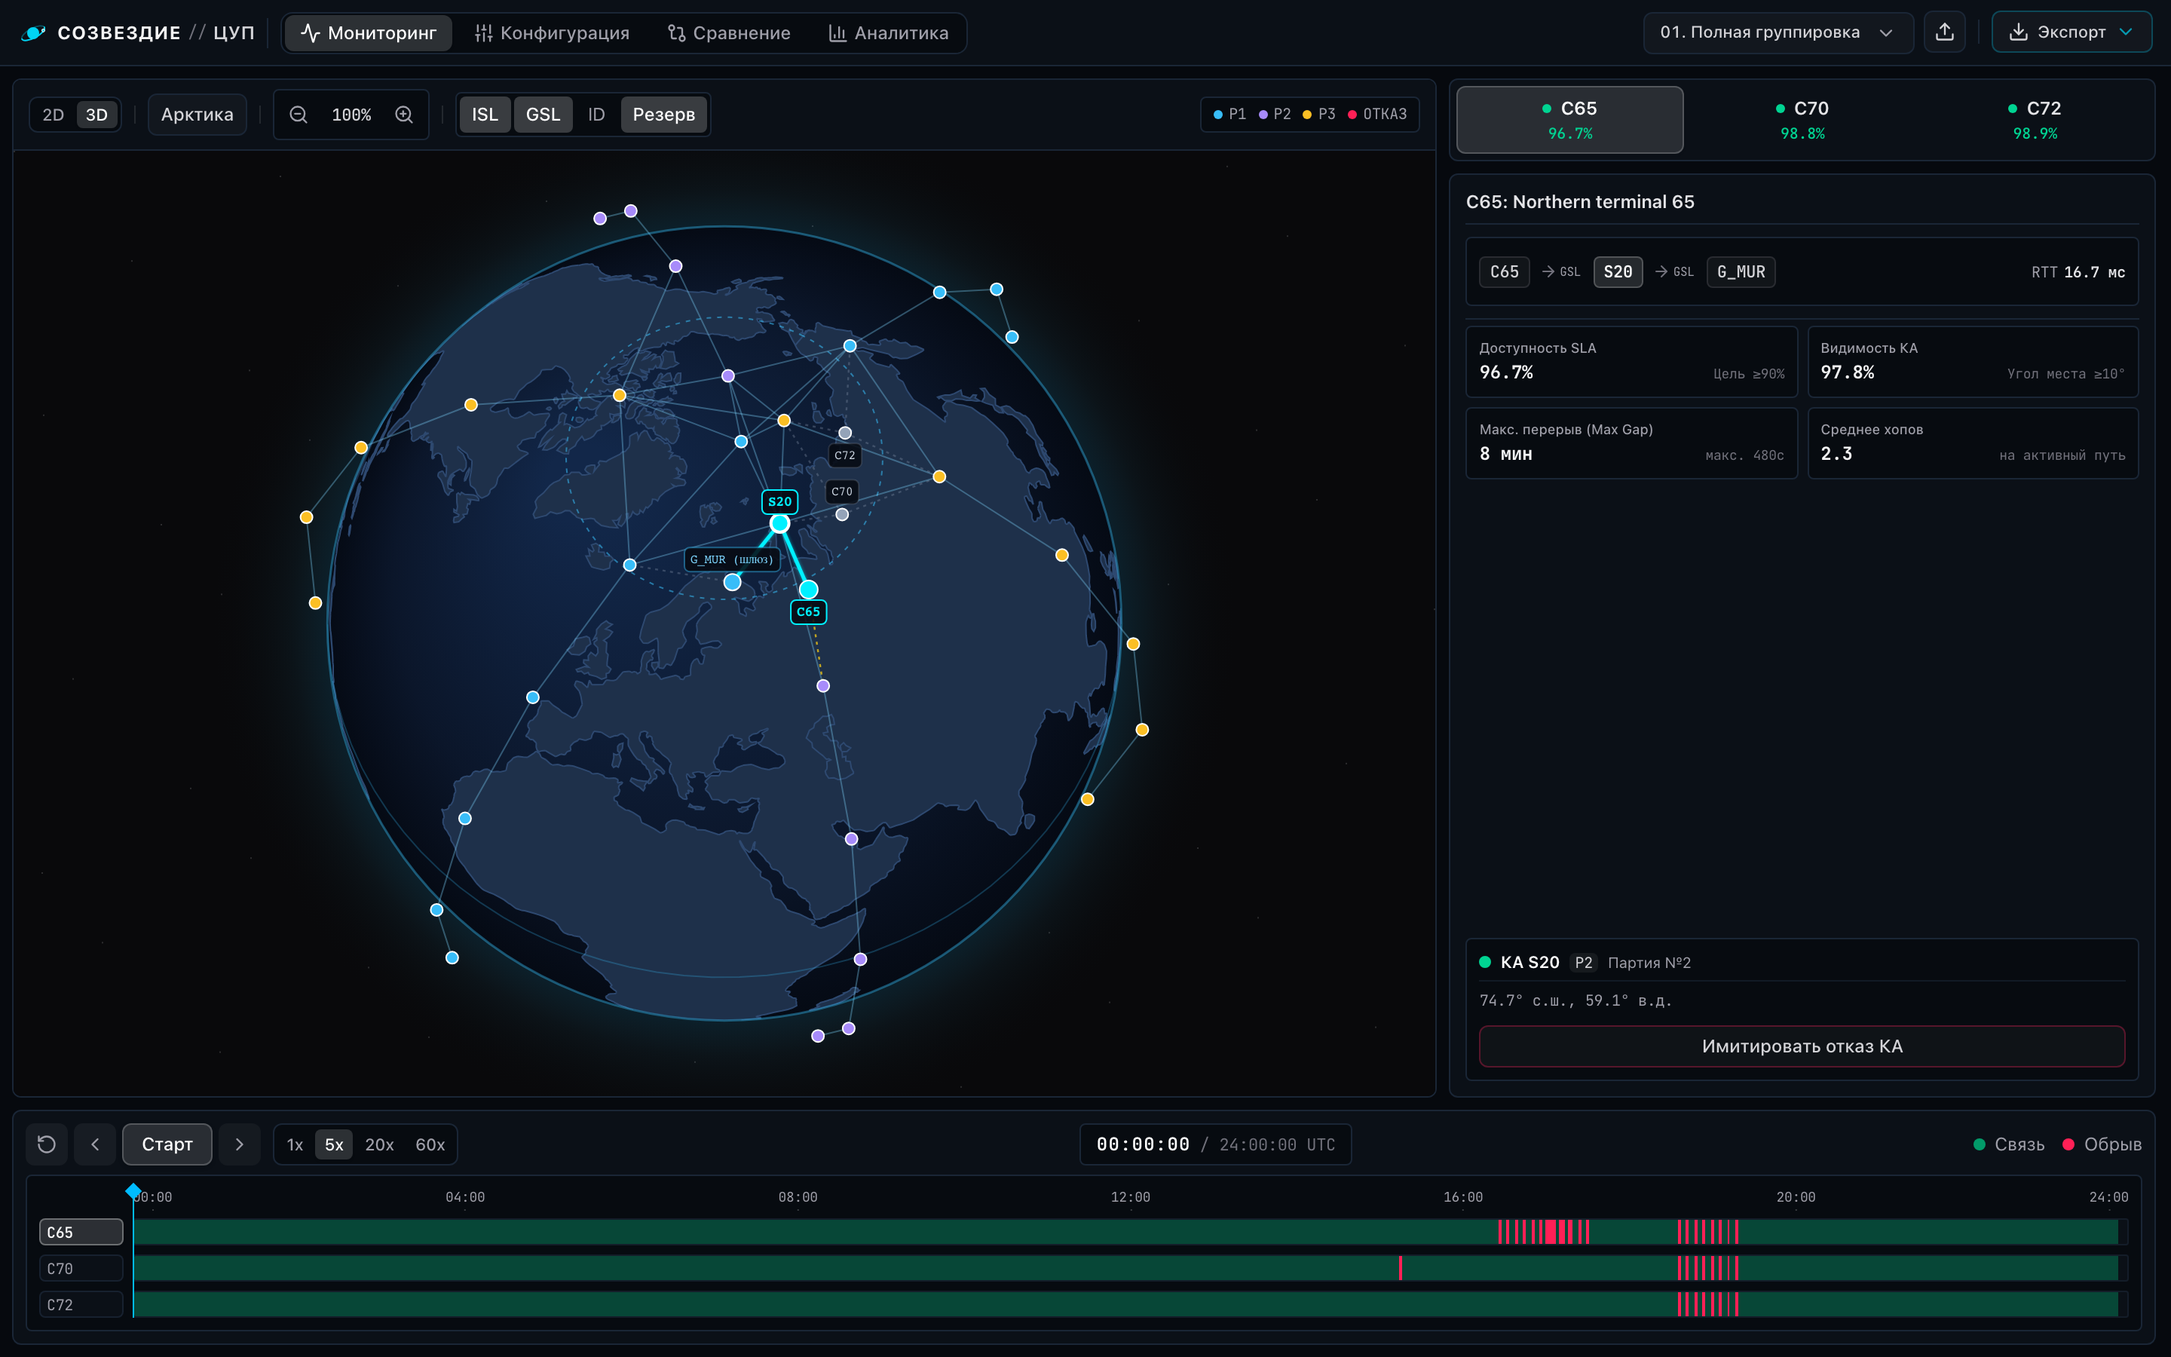
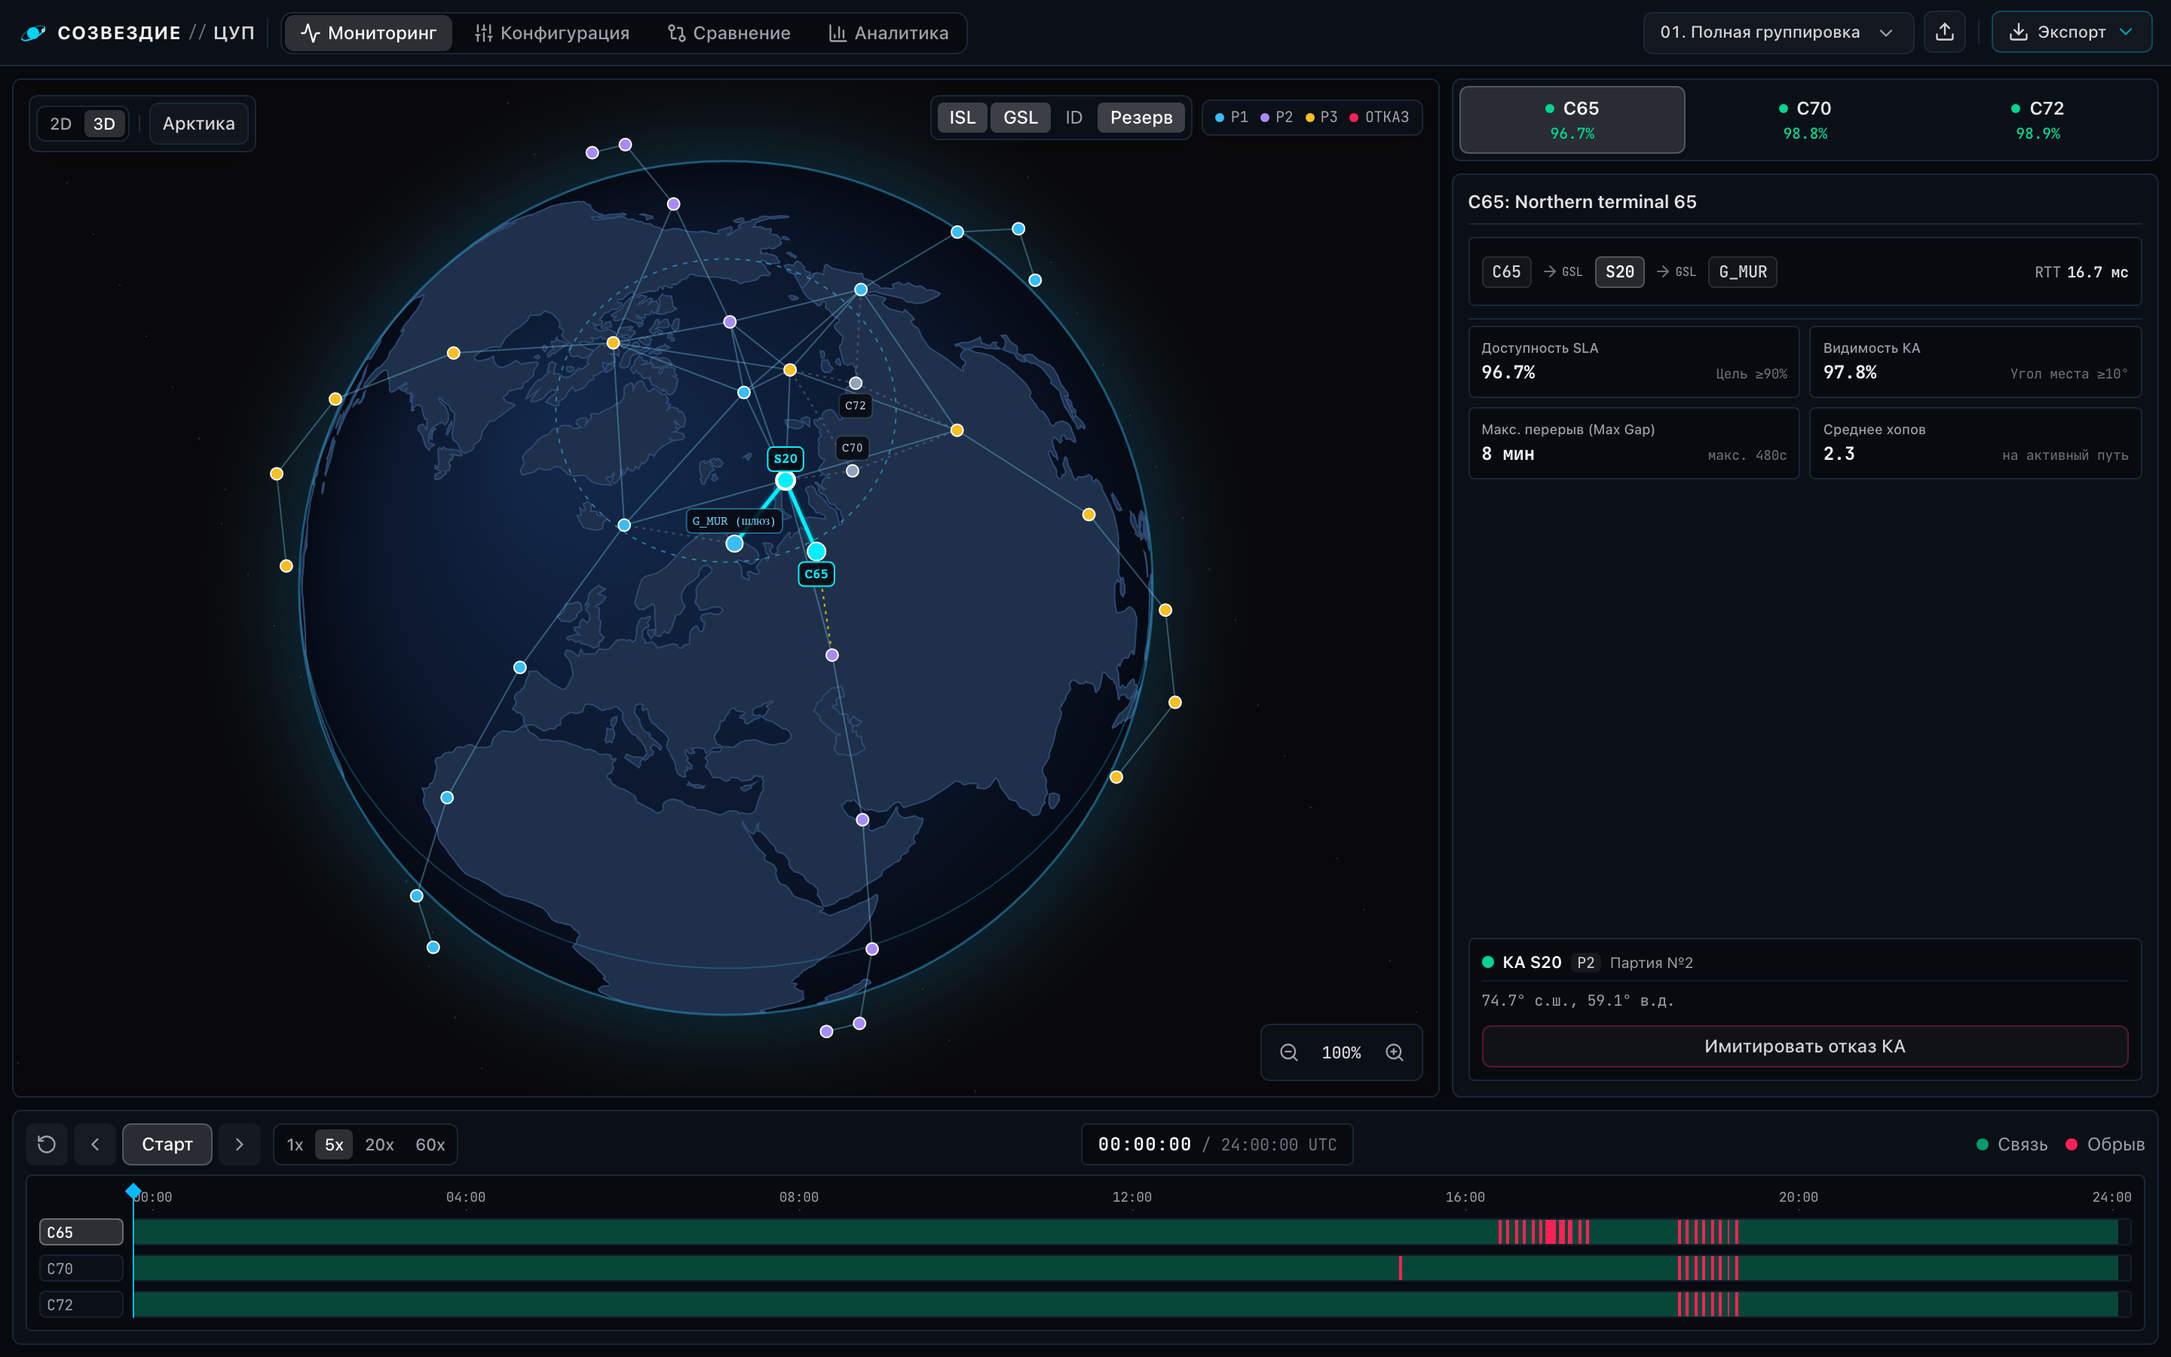
feat(ui): add floating HUD map controls and fix dropdown positioning

diff --git a/frontend/src/components/map/MapControls.tsx b/frontend/src/components/map/MapControls.tsx
@@ -42,37 +42,119 @@ export const MapControls: React.FC<MapControlsProps> = ({
   const isMaxZoom = viewMode === '2d' ? zoom >= 4.0 : zoom >= 3.0
 
   return (
-    <div className="flex-shrink-0 flex items-center justify-between gap-1 sm:gap-2 bg-[#0b1017] px-1.5 sm:px-2.5 py-1 sm:py-1.5 border-b border-[#1a2636] font-sans text-xs z-10 overflow-x-auto no-scrollbar touch-pan-x">
-      <div className="flex items-center gap-1 sm:gap-1.5 shrink-0 min-w-max">
-        {/* 2D / 3D Mode Switcher */}
-        <SegmentedControl
-          options={[
-            { value: '2d', label: '2D' },
-            { value: '3d', label: '3D' },
-          ]}
-          value={viewMode}
-          onChange={onSetViewMode}
-          size="sm"
-        />
+    <div className="absolute inset-0 pointer-events-none p-2 sm:p-2.5 flex flex-col justify-between z-20 font-sans text-xs select-none">
+      {/* Top Controls: Mode & Layers */}
+      <div className="flex items-start justify-between gap-1.5 w-full">
+        {/* Top-Left: 2D/3D & Arctic */}
+        <div className="pointer-events-auto flex items-center gap-1 bg-[#0b1017]/90 backdrop-blur-md p-0.5 sm:p-1 rounded-md border border-[#1a2636] shadow-lg shrink-0">
+          <SegmentedControl
+            options={[
+              { value: '2d', label: '2D' },
+              { value: '3d', label: '3D' },
+            ]}
+            value={viewMode}
+            onChange={onSetViewMode}
+            size="sm"
+          />
 
-        <div className="h-3 w-px bg-white/10 mx-0.5" />
+          <div className="h-3 w-px bg-white/10 mx-0.5" />
 
-        {/* Arctic Focus */}
-        <Button
-          type="button"
-          variant="outline"
-          size="sm"
-          onClick={onFocusArctic}
-          title="Сфокусировать 3D-глобус на Арктике"
-          className="h-6 sm:h-7 px-1.5 sm:px-2 text-[11px] sm:text-xs"
-        >
-          <span>Арктика</span>
-        </Button>
+          <Button
+            type="button"
+            variant="outline"
+            size="sm"
+            onClick={onFocusArctic}
+            aria-label="Арктика"
+            title="Сфокусировать 3D-глобус на Арктике"
+            className="h-6 sm:h-7 px-1.5 sm:px-2 text-[10px] sm:text-xs font-medium"
+          >
+            <span className="hidden sm:inline">Арктика</span>
+            <span className="sm:hidden">Арк</span>
+          </Button>
+        </div>
 
-        <div className="h-3 w-px bg-white/10 mx-0.5" />
+        {/* Top-Right: Layers & Legend */}
+        <div className="pointer-events-auto flex items-center gap-1 sm:gap-1.5 shrink-0">
+          {/* Layer Toggles */}
+          <div className="flex items-center bg-[#0b1017]/90 backdrop-blur-md p-0.5 sm:p-1 rounded-md border border-[#1a2636] shadow-lg gap-0.5">
+            <button
+              type="button"
+              onClick={onToggleIsl}
+              title="Межспутниковые линии (ISL)"
+              className={`px-1 sm:px-2 py-0.5 rounded transition-all cursor-pointer text-[10px] sm:text-xs ${
+                showIsl ? 'bg-white/20 text-white font-medium' : 'text-zinc-400 hover:text-zinc-200'
+              }`}
+            >
+              ISL
+            </button>
 
-        {/* Zoom Controls */}
-        <div className="flex items-center bg-[#070b10] p-0.5 rounded border border-[#1a2636] gap-0.5">
+            <button
+              type="button"
+              onClick={onToggleGroundLinks}
+              title="Линии Земля-Спутник (GSL)"
+              className={`px-1 sm:px-2 py-0.5 rounded transition-all cursor-pointer text-[10px] sm:text-xs ${
+                showGroundLinks
+                  ? 'bg-white/20 text-white font-medium'
+                  : 'text-zinc-400 hover:text-zinc-200'
+              }`}
+            >
+              GSL
+            </button>
+
+            <button
+              type="button"
+              onClick={onToggleLabels}
+              title="Номера спутников (ID)"
+              className={`px-1 sm:px-2 py-0.5 rounded transition-all cursor-pointer text-[10px] sm:text-xs ${
+                showLabels
+                  ? 'bg-white/20 text-white font-medium'
+                  : 'text-zinc-400 hover:text-zinc-200'
+              }`}
+            >
+              ID
+            </button>
+
+            <button
+              type="button"
+              onClick={onToggleUnlaunched}
+              aria-label="Резерв"
+              title="Спутники последующих этапов"
+              className={`px-1 sm:px-2 py-0.5 rounded transition-all cursor-pointer text-[10px] sm:text-xs ${
+                showUnlaunched
+                  ? 'bg-white/20 text-white font-medium'
+                  : 'text-zinc-400 hover:text-zinc-200'
+              }`}
+            >
+              <span className="hidden sm:inline">Резерв</span>
+              <span className="sm:hidden">Рез</span>
+            </button>
+          </div>
+
+          {/* Orbit Plane Legend on md+ */}
+          <div className="hidden md:flex items-center gap-1.5 sm:gap-2 bg-[#0b1017]/90 backdrop-blur-md px-1.5 sm:px-2 py-1 rounded-md border border-[#1a2636] shadow-lg font-mono text-[9px] sm:text-[10px] shrink-0">
+            <div className="flex items-center gap-1">
+              <span className="w-1.5 h-1.5 rounded-full bg-[#38bdf8]" />
+              <span className="text-zinc-400">P1</span>
+            </div>
+            <div className="flex items-center gap-1">
+              <span className="w-1.5 h-1.5 rounded-full bg-[#a78bfa]" />
+              <span className="text-zinc-400">P2</span>
+            </div>
+            <div className="flex items-center gap-1">
+              <span className="w-1.5 h-1.5 rounded-full bg-[#fbbf24]" />
+              <span className="text-zinc-400">P3</span>
+            </div>
+            <div className="flex items-center gap-1">
+              <span className="w-1.5 h-1.5 rounded-full bg-rose-500" />
+              <span className="text-zinc-400">ОТКАЗ</span>
+            </div>
+          </div>
+        </div>
+      </div>
+
+      {/* Bottom Controls: Bottom-Right Zoom HUD */}
+      <div className="flex justify-end w-full pointer-events-none">
+        <div className="pointer-events-auto flex items-center bg-[#0b1017]/90 backdrop-blur-md p-0.5 sm:p-1 rounded-md border border-[#1a2636] shadow-lg gap-0.5">
           <Button
             type="button"
             variant="ghost"
@@ -115,81 +197,6 @@ export const MapControls: React.FC<MapControlsProps> = ({
           >
             <ZoomIn className="w-3.5 h-3.5" />
           </Button>
-        </div>
-
-        <div className="h-3 w-px bg-white/10 mx-0.5" />
-
-        {/* Layer Toggles */}
-        <div className="flex items-center bg-[#070b10] p-0.5 rounded border border-[#1a2636] gap-0.5">
-          <button
-            type="button"
-            onClick={onToggleIsl}
-            title="Межспутниковые линии (ISL)"
-            className={`px-1.5 sm:px-2 py-0.5 sm:py-1 rounded transition-all cursor-pointer text-[11px] sm:text-xs ${
-              showIsl ? 'bg-white/20 text-white font-medium' : 'text-zinc-400 hover:text-zinc-200'
-            }`}
-          >
-            ISL
-          </button>
-
-          <button
-            type="button"
-            onClick={onToggleGroundLinks}
-            title="Линии Земля-Спутник (GSL)"
-            className={`px-1.5 sm:px-2 py-0.5 sm:py-1 rounded transition-all cursor-pointer text-[11px] sm:text-xs ${
-              showGroundLinks
-                ? 'bg-white/20 text-white font-medium'
-                : 'text-zinc-400 hover:text-zinc-200'
-            }`}
-          >
-            GSL
-          </button>
-
-          <button
-            type="button"
-            onClick={onToggleLabels}
-            title="Номера спутников (ID)"
-            className={`px-1.5 sm:px-2 py-0.5 sm:py-1 rounded transition-all cursor-pointer text-[11px] sm:text-xs ${
-              showLabels
-                ? 'bg-white/20 text-white font-medium'
-                : 'text-zinc-400 hover:text-zinc-200'
-            }`}
-          >
-            ID
-          </button>
-
-          <button
-            type="button"
-            onClick={onToggleUnlaunched}
-            title="Спутники последующих этапов"
-            className={`px-1.5 sm:px-2 py-0.5 sm:py-1 rounded transition-all cursor-pointer text-[11px] sm:text-xs ${
-              showUnlaunched
-                ? 'bg-white/20 text-white font-medium'
-                : 'text-zinc-400 hover:text-zinc-200'
-            }`}
-          >
-            Резерв
-          </button>
-        </div>
-      </div>
-
-      {/* Orbit Plane Legend in Header */}
-      <div className="hidden md:flex items-center gap-1.5 sm:gap-2 bg-[#070b10] px-1.5 sm:px-2 py-1 rounded border border-[#1a2636] font-mono text-[9px] sm:text-[10px] shrink-0">
-        <div className="flex items-center gap-1">
-          <span className="w-1.5 h-1.5 rounded-full bg-[#38bdf8]" />
-          <span className="text-zinc-400">P1</span>
-        </div>
-        <div className="flex items-center gap-1">
-          <span className="w-1.5 h-1.5 rounded-full bg-[#a78bfa]" />
-          <span className="text-zinc-400">P2</span>
-        </div>
-        <div className="flex items-center gap-1">
-          <span className="w-1.5 h-1.5 rounded-full bg-[#fbbf24]" />
-          <span className="text-zinc-400">P3</span>
-        </div>
-        <div className="flex items-center gap-1">
-          <span className="w-1.5 h-1.5 rounded-full bg-rose-500" />
-          <span className="text-zinc-400">ОТКАЗ</span>
         </div>
       </div>
     </div>

diff --git a/frontend/src/components/map/NetworkMap.tsx b/frontend/src/components/map/NetworkMap.tsx
@@ -482,7 +482,19 @@ export const NetworkMap: React.FC<NetworkMapProps> = ({
   }, [inspectedSatId, snapshot.edges])
 
   return (
-    <div className="relative w-full h-full flex flex-col bg-[#06090e] select-none overflow-hidden">
+    <div ref={containerRef} className="relative w-full h-full flex flex-col bg-[#06090e] select-none overflow-hidden">
+      <canvas
+        ref={canvasRef}
+        onPointerDown={handlePointerDown}
+        onPointerMove={handleMouseMove}
+        onPointerUp={handlePointerUp}
+        onPointerCancel={handlePointerUp}
+        onMouseLeave={() => setIsDragging(false)}
+        onClick={handleCanvasClick}
+        className={`w-full h-full block touch-none ${isDragging ? 'cursor-grabbing' : 'cursor-grab'}`}
+      />
+
+      {/* Floating HUD Controls */}
       <MapControls
         viewMode={viewMode}
         onSetViewMode={handleSetViewMode}
@@ -501,28 +513,14 @@ export const NetworkMap: React.FC<NetworkMapProps> = ({
         onToggleUnlaunched={() => setShowUnlaunched((v) => !v)}
       />
 
-      {/* Main Canvas Viewport Area */}
-      <div ref={containerRef} className="relative flex-1 w-full min-h-0 overflow-hidden">
-        <canvas
-          ref={canvasRef}
-          onPointerDown={handlePointerDown}
-          onPointerMove={handleMouseMove}
-          onPointerUp={handlePointerUp}
-          onPointerCancel={handlePointerUp}
-          onMouseLeave={() => setIsDragging(false)}
-          onClick={handleCanvasClick}
-          className={`w-full h-full block touch-none ${isDragging ? 'cursor-grabbing' : 'cursor-grab'}`}
-        />
+      <MapTooltip hoveredNode={hoveredNode} />
 
-        <MapTooltip hoveredNode={hoveredNode} />
-
-        <MapSatelliteHUD
-          satellite={inspectedSat}
-          islDegree={inspectedSatDegree}
-          onClose={() => setInspectedSatId(null)}
-          onToggleFailure={onToggleFailure}
-        />
-      </div>
+      <MapSatelliteHUD
+        satellite={inspectedSat}
+        islDegree={inspectedSatDegree}
+        onClose={() => setInspectedSatId(null)}
+        onToggleFailure={onToggleFailure}
+      />
     </div>
   )
 }

diff --git a/frontend/src/components/analytics/MetricsPanel.tsx b/frontend/src/components/analytics/MetricsPanel.tsx
@@ -167,7 +167,7 @@ export const MetricsPanel: React.FC<MetricsPanelProps> = ({
   const primeSat = primeSatId ? snapshot.satellites.find((s) => s.id === primeSatId) : null
 
   return (
-    <div className="h-full flex flex-col gap-2 font-sans text-xs overflow-y-auto">
+    <div className="h-full flex flex-col gap-2 font-sans text-xs overflow-y-auto overflow-x-hidden">
       {/* 1. Client Switcher Header */}
       <ClientSelector
         clients={clients}
@@ -180,7 +180,7 @@ export const MetricsPanel: React.FC<MetricsPanelProps> = ({
       />
 
       {/* 2. Client Details & Route Card */}
-      <div className="flex-1 flex flex-col bg-[#0b1017] p-2 sm:p-2.5 rounded-md border border-[#1a2636] gap-2 lg:overflow-y-auto">
+      <div className="flex-1 flex flex-col bg-[#0b1017] p-2 sm:p-2.5 rounded-md border border-[#1a2636] gap-2 lg:overflow-y-auto lg:overflow-x-hidden overflow-x-hidden">
         {/* Header & Gateway Status */}
         <div className="flex items-center justify-between gap-1.5 pb-1.5 border-b border-[#1a2636] shrink-0">
           <span className="font-semibold text-zinc-200 text-xs truncate min-w-0">
@@ -224,7 +224,7 @@ export const MetricsPanel: React.FC<MetricsPanelProps> = ({
               })}
 
               {routeLatencyMs && (
-                <div className="w-full sm:w-auto sm:ml-auto flex justify-end text-zinc-400 text-[10px] font-mono">
+                <div className="basis-full sm:basis-auto sm:ml-auto min-w-0 flex justify-end text-zinc-400 text-[10px] font-mono">
                   RTT <span className="text-zinc-200 font-semibold ml-1">{routeLatencyMs} мс</span>
                 </div>
               )}

diff --git a/frontend/src/components/layout/Header.tsx b/frontend/src/components/layout/Header.tsx
@@ -272,7 +272,7 @@ export const Header: React.FC<HeaderProps> = ({
             </Button>
 
             {isPresetOpen && (
-              <div className="absolute right-0 top-full mt-1.5 min-w-[200px] w-64 max-w-[calc(100vw-1rem)] bg-[#0b1017] border border-[#1a2636] rounded-md shadow-2xl py-1 z-50 backdrop-blur-md">
+              <div className="fixed inset-x-2 top-12 sm:top-full sm:mt-1.5 sm:absolute sm:right-0 sm:left-auto sm:w-64 max-w-sm sm:max-w-none mx-auto sm:mx-0 bg-[#0b1017] border border-[#1a2636] rounded-md shadow-2xl py-1 z-50 backdrop-blur-md">
                 <div className="px-3 py-1.5 text-[11px] font-sans text-zinc-400 font-medium border-b border-[#1a2636] mb-1">
                   Выберите сценарий
                 </div>
@@ -359,7 +359,7 @@ export const Header: React.FC<HeaderProps> = ({
           </Button>
 
           {isExportOpen && (
-            <div className="absolute right-0 top-full mt-1.5 w-60 bg-[#0b1017] border border-[#1a2636] rounded-md shadow-2xl py-1 z-50 backdrop-blur-md">
+            <div className="fixed inset-x-2 top-12 sm:top-full sm:mt-1.5 sm:absolute sm:right-0 sm:left-auto sm:w-60 max-w-sm sm:max-w-none mx-auto sm:mx-0 bg-[#0b1017] border border-[#1a2636] rounded-md shadow-2xl py-1 z-50 backdrop-blur-md">
               <div className="px-3 py-1.5 text-[11px] font-sans text-zinc-400 font-medium border-b border-[#1a2636] mb-1">
                 Экспорт данных
               </div>

diff --git a/frontend/src/App.tsx b/frontend/src/App.tsx
@@ -112,7 +112,7 @@ export default function App() {
       {/* Main Content Area */}
       <main className="flex-1 min-h-0 p-1.5 sm:p-2 flex flex-col gap-2 overflow-hidden w-full">
         {activeTab === 'monitor' && (
-          <div className="flex-1 min-h-0 flex flex-col gap-2 overflow-y-auto lg:overflow-hidden pr-0.5">
+          <div className="flex-1 min-h-0 flex flex-col gap-2 overflow-y-auto overflow-x-hidden lg:overflow-hidden">
             {/* Upper Split: Map (65%) & Metrics (35%) */}
             <div className="shrink-0 lg:shrink lg:flex-1 min-h-0 grid grid-cols-1 lg:grid-cols-12 gap-2">
               {/* Map & Network Visualization */}
